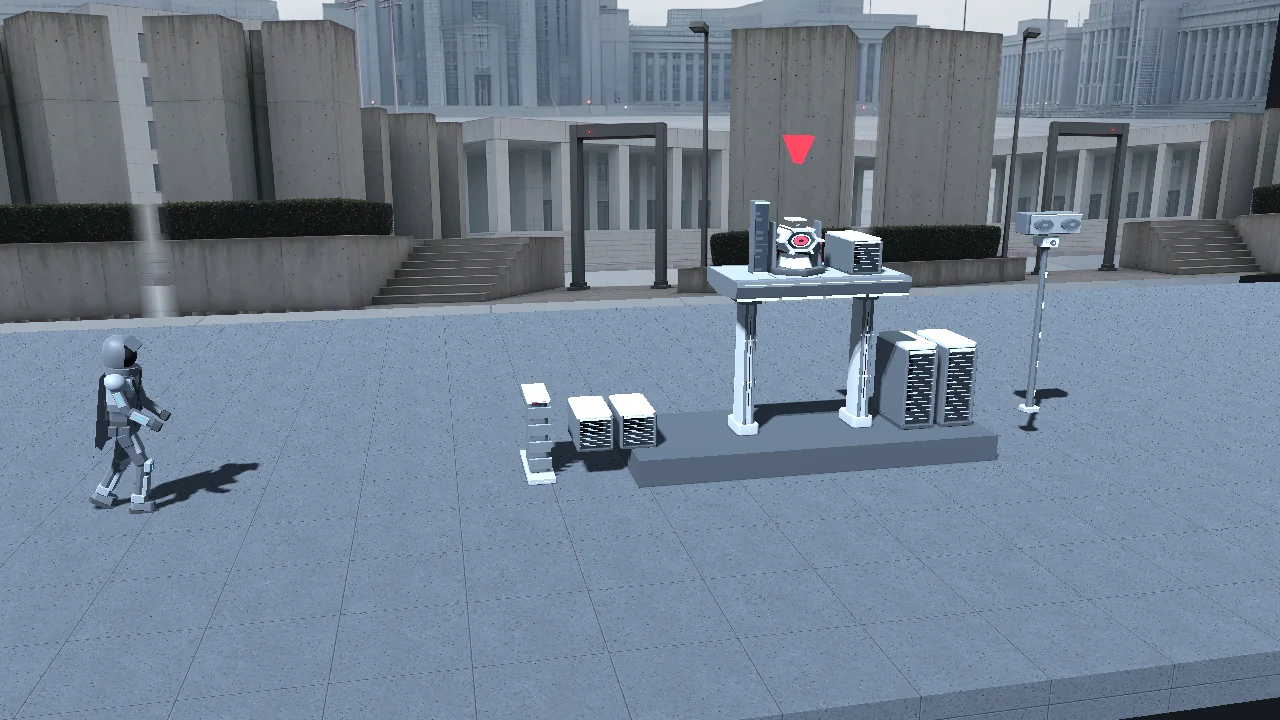
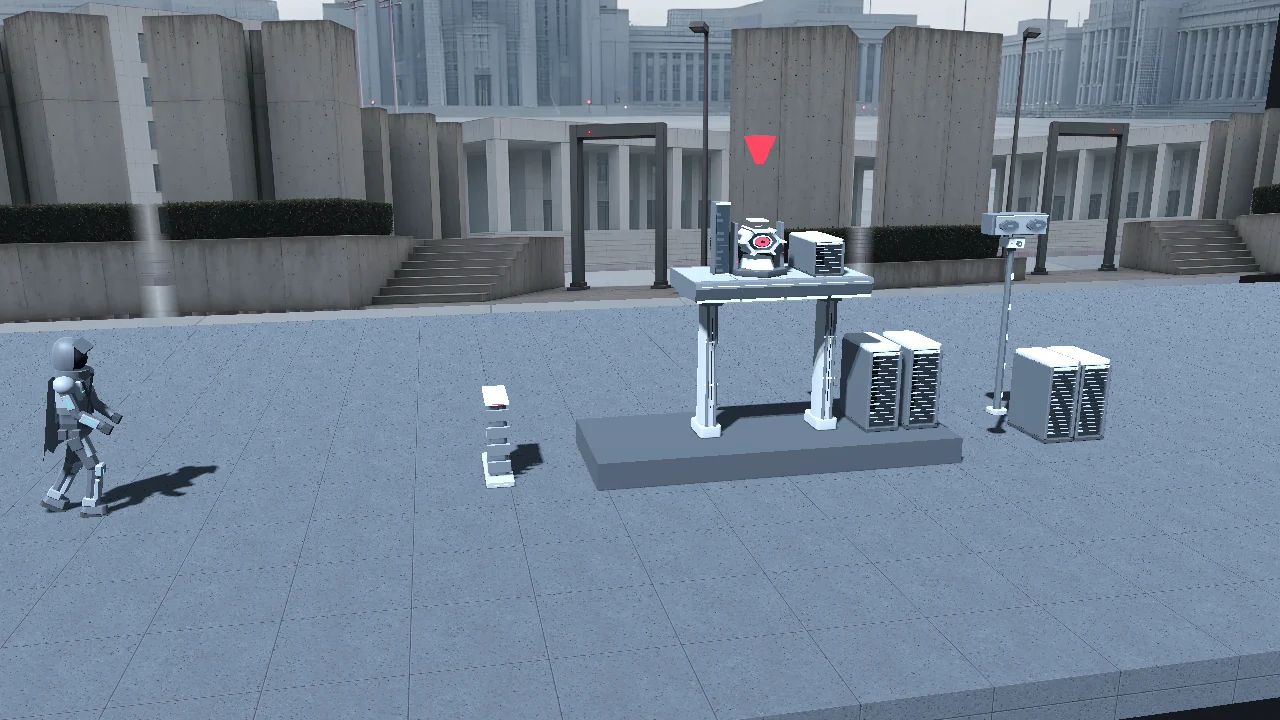
assets: contract v1.8 follows main rack layout and shader warm-up, integration pass 14 re-renders previews

Changed region(s): [[0.375, 0.275, 0.875, 0.7028], [0.0312, 0.4583, 0.2188, 0.7333], [0.5625, 0.1833, 0.6562, 0.2444]]

diff --git a/generated_assets/docs/ASSET_CONTRACT.md b/generated_assets/docs/ASSET_CONTRACT.md
@@ -1,6 +1,6 @@
 # Temporal: First Jump - Asset contract (v1)
 
-**Status:** v1.7 (first published 2026-11-09, revised 2026-11-10) by the integration stream. Binding for every production stream (3d-kits, surfaces, ui-vfx, audio) and the proposed integration contract for the coding agent. Later versions refine it; breaking changes are listed in the change log at the end.
+**Status:** v1.8 (first published 2026-11-09, revised 2026-11-10) by the integration stream. Binding for every production stream (3d-kits, surfaces, ui-vfx, audio) and the proposed integration contract for the coding agent. Later versions refine it; breaking changes are listed in the change log at the end.
 **Derived from code on `main` merged into `assets` at `84a34fd`:** `scripts/mission/view/view_mapping.gd`, `mission_view.gd`, `operative_rig.gd`, `scripts/core/damageable_component.gd`, `material_catalog.gd`, `weapon_catalog.gd`, `scripts/services/music_director.gd`, `audio_service.gd`, `data/materials.json`, `data/weapons.json`, `data/missions/helix_01.json`, `data/chapters.json`, `project.godot`.
 **Engine:** Godot 4.7.2 stable, GL Compatibility renderer on desktop and mobile, ETC2/ASTC VRAM compression enabled (`textures/vram_compression/import_etc2_astc=true`).
 
@@ -65,7 +65,7 @@ Kinds are the `kind` strings in mission JSON. Helix kinds exist in code today. C
 | Meridian `MRD` (proposed) | `anchor_column` (reinforced_steel), `convergence_deck` (composite), `phase_shield` (glass_polymer), `quantum_stabilizer` (electronic_module), `temporal_cell` (energy_component), `monolith_slab` (concrete), `timeline_relay` (lightweight_alloy), `convergence_core` (energy_component, critical) |
 | Shared `SHR` | `generic_block_alloy`, `generic_block_steel`, `generic_block_concrete`, `generic_panel_glass`, `generic_beam_composite` (fallback blocks for structural filler, one per physics material) |
 
-**Reference sizes.** Missions give every component its own `w x h`. A kit mesh is authored at a reference size and the view scales it in X and Y to the actual rectangle (proposed: `scale = (w/100, h/100) / reference_size_m`; depth stays at the kind depth). Record `reference_size_px` (`[w, h]`) and `depth_m` in the manifest, plus `scale_range` (min, max per axis) the mesh still looks right at. Use the `helix_01` sizes for Helix kinds (after the `main` collapse tuning in `abf69fc`: server_rack 40 x 40 and 40 x 100, support_column 26 x 160, service_deck 200 x 24, ai_core 60 x 60, core_shield 16 x 80, power_cell 36 x 40, blast_wall 30 x 90, relay_mast 22 x 220, relay_dish 70 x 24). Where one mesh cannot stretch well (columns, masts, decks) supply length variants (`-A` short, `-B` medium, `-C` long) or design the mesh so its middle section stretches cleanly (end caps at the ends, plain repeating middle).
+**Reference sizes.** Missions give every component its own `w x h`. A kit mesh is authored at a reference size and the view scales it in X and Y to the actual rectangle (proposed: `scale = (w/100, h/100) / reference_size_m`; depth stays at the kind depth). Record `reference_size_px` (`[w, h]`) and `depth_m` in the manifest, plus `scale_range` (min, max per axis) the mesh still looks right at. Use the `helix_01` sizes for Helix kinds (after `main` `7e42a91`: server_rack 40 x 100 for the shipped racks, with 40 x 40 kept for probe layouts, support_column 26 x 160, service_deck 200 x 24, ai_core 60 x 60, core_shield 16 x 80, power_cell 36 x 40, blast_wall 30 x 90, relay_mast 22 x 220, relay_dish 70 x 24). Where one mesh cannot stretch well (columns, masts, decks) supply length variants (`-A` short, `-B` medium, `-C` long) or design the mesh so its middle section stretches cleanly (end caps at the ends, plain repeating middle).
 
 ## 6. Naming
 
@@ -188,6 +188,7 @@ Standard component 200-1,500 tris; hero and critical assets <= 3,000; debris set
 - **Fragments:** each stream writes `generated_assets/manifest_parts/<stream>.json`: `{"stream": "<name>", "updated": "YYYY-MM-DD", "entries": [ ... ]}`. Entry schema = `asset_manifest.json` (required: `id`, `path`, `category`, `render_type`, `format`, `purpose`, `source`, `rights_status`, `approval_status`, `used_by`; optional: `dimensions`, `duration_seconds`, `notes`, `chapter`, `pivot`, `animation`, `loop`, `material`, `component_kind`, `levels`, plus the contract fields `reference_size_px`, `depth_m`, `scale_range`, `tris`, `states`, `nine_slice`, `blend`, `bus`, `sample_rate`, `channels`, `loudness_lufs`, `master_path`, `loop_offset_seconds`, `loop_overlap_seconds`, `sound_id`, `music_cue`, `ambience_cue`). Only list files that exist. `approval_status` for new work is `pending_review`.
 - **Chapter values:** `helix`, `vita`, `nova_grid`, `civitas`, `meridian`, `shared`.
 - **Merge:** `python3 generated_assets/tools/validate_asset_manifest.py --merge` (integration stream) merges all fragments into `asset_manifest.json` with cross-fragment duplicate checks and deep file checks.
+- **Shader warm-up:** `main` `9f773fd` pre-compiles the blast flash, light, sparks and debris shaders while a mission loads, because compiling them on first use stalled a frame by 0.5 to 1.1 s on Android. When the loader adopts kit materials, texture sets and the ui-vfx `.tscn` presets, show each new material and particle preset once, invisibly, during the same warm-up.
 - **Coding agent (proposed loader):** read `generated_assets/asset_manifest.json` once at startup (or a build step converts it to a `.tres` lookup), index entries by `(chapter, component_kind)` for `render_type == "mesh"` and `category == "destructibles"`, and in `MissionView._add_component` instance `load(path)` (a `PackedScene` from the glb import) instead of the greybox `BoxMesh`, scaling X and Y to the physics rectangle as in section 5. Fall back to the current greybox box when no entry exists, so missing art never breaks a level. Debris sets by `(chapter, component_kind)` with id type `DEB`. Damage overlays by `material`. Music by `id`; levels and chapters map to tracks through `generated_assets/docs/coverage_matrix.json`. Nothing under `generated_assets/` is wired into the game until the owner approves integration into `main`.
 
 ## 18. Validation the integration stream runs
@@ -220,3 +221,4 @@ Standard component 200-1,500 tris; hero and critical assets <= 3,000; debris set
 - v1.5 (2026-11-10): follows `main` `abf69fc`: new physics material `ai_core_module` for critical cores (sections 5 and 7) and the retuned `helix_01` sizes (blast wall 30 x 90, short server racks 40 x 40).
 - v1.6 (2026-11-10): section 15 lists the sound and music ids now in `data/audio.json` on `main` (`fa9da67`) and points to the generated audio hook map.
 - v1.7 (2026-11-10): section 7 vertex colours: instead of asking kits to drop `COLOR_0`, the loader honours it as glTF specifies (Godot 4.7.2 import does so only for some surfaces). Kits made either way are valid.
+- v1.8 (2026-11-10): follows `main` `7e42a91` and `9f773fd`: `helix_01` racks are 40 x 100 again (40 x 40 stays a probe size, both rack variants remain valid), and section 17 asks the loader to include new materials and VFX presets in the mission-start shader warm-up.

diff --git a/docs/changelog.md b/docs/changelog.md
@@ -20,6 +20,8 @@ All meaningful changes, newest first.
 - Integration pass 5: audio batches 2 and 3 (55 original music cues for all chapters and the shared set) and surfaces batch 2 (metal and Meridian readability revision) merged. Godot load 857 / 857, 0 failures. Music measured -16.1 LUFS median (-15.9 to -16.3 for full mixes; critical layers -18.9 by design), true peak at most -1.2 dBTP. Every code sound id and music cue now has delivered files in the audio hook map; `gameplay_bed.ogg` is untouched and stays rights-unverified. Added `generated_assets/vfx/previews/.gdignore` so Godot skips the animated WebP review previews it cannot import. Coverage: 2009 / 3236, game-wide 29 / 36, 0 / 100 levels complete (3D kits, environment kits, backgrounds and cinematics still to come).
 - Integration pass 6: surfaces batch 3 (Helix, VITA and Nova Grid background layers and atmosphere overlays) merged; Godot load 923 / 923. Contract v1.7: the loader honours glTF vertex colours, so kits may use `COLOR_0` or baked colour. Validator accepts animation clips that share a character glb and checks each clip exists. Coverage: 2109 / 3236, game-wide 29 / 36, 0 / 100 levels complete.
 - Preview harness: background renders per band (`harness_mission_<chapter>_bg<band>.webp`) with the far, mid and near cards placed as the surfaces stream specifies; contract section 10 records that placement.
+- Merged `main` `9cfee96` (with `7e42a91`, the Helix rack layout: `rack_1` and `rack_2` back to 40 x 100 beyond the relay mast, and `9f773fd`, the shader warm-up) into `assets` as 615b800. Contract v1.8 records both: 40 x 100 is the shipped rack size again, and the loader should include new materials and VFX presets in the mission-start warm-up.
+- Integration pass 14: re-rendered every mission preview for the new Helix layout (the harness now picks `HLX-CMP-SERVER_RACK-B`, 40 x 100, at scale 1.0). Validator 0 warnings; Godot load 1358 / 1358; coverage unchanged at 3054 / 3236.
 - Integration pass 13: 3d-kits merged the rigged operative (`OPR-CHR-OPERATIVE-A`, 9 clips) and the Meridian environment kit. Manifest 1351 entries, 333.8 MB, level with the fragments (3d-kits 400, audio 245, surfaces 375, ui-vfx 314); validator 0 warnings. Godot load 1358 / 1358 (392 PackedScenes). Every mission render now shows the real operative in place of the capsule stand-in. Coverage: 3054 / 3236; levels 39 full, 51 fallback, 10 missing; game-wide 35 / 36.
 - Integration pass 12: surfaces batch 4 (Civitas and Meridian background sets) and 3d-kits batch 9 (Civitas environment kit, 21 modules) merged. Pass 11 was pushed on top of both by the push routine's rebase, so its merged manifest briefly lagged the fragments; this pass brings it level. Manifest 1303 entries, 328.4 MB; validator 0 warnings. Godot load 1310 / 1310 (349 PackedScenes). All five chapters now render their own background bands (`harness_mission_civitas_bg1-4.webp`, `harness_mission_meridian_bg1-4.webp`). Coverage: 2970 / 3236; levels 21 full, 51 fallback, 28 missing.
 - Integration pass 11: 3d-kits batches 7 and 8 merged (VITA and Nova Grid environment kits, 21 modules each including the four band landmarks). Manifest 1245 entries, 323.7 MB; validator 0 warnings. Godot load 1252 / 1252 (328 PackedScenes), import clean first time. New `harness_props_vita.webp` and `harness_props_nova_grid.webp`. Coverage: 2886 / 3236; levels 20 full, 34 fallback, 46 missing.

diff --git a/docs/currentstate.md b/docs/currentstate.md
@@ -9,7 +9,7 @@ M1 audit findings (toolchain, architecture, level mapping, identity/signing, ris
 This section exists only on the `assets` branch. `main` is untouched; nothing under `generated_assets/` is wired into the game until the owner approves integration.
 
 - **Scope:** owner-authorised production of the complete asset library for all five chapters and 100 levels: modular 3D component kits with damage states and debris, environment kits, materials and damage overlays, operative and weapons, VFX, UI/UX, app icon and splash, cinematics stills, original music, SFX and ambience. Streams: integration, 3d-kits, surfaces, ui-vfx, audio.
-- **Contract:** `generated_assets/docs/ASSET_CONTRACT.md`, v1.7 (scale 100 px = 1 m, glb +Y up and +Z towards the camera, centre pivots on z = 0, front face = physics rectangle, MissionView camera and light, damage states intact/light/heavy/destroyed with an optional sparking state).
+- **Contract:** `generated_assets/docs/ASSET_CONTRACT.md`, v1.8 (scale 100 px = 1 m, glb +Y up and +Z towards the camera, centre pivots on z = 0, front face = physics rectangle, MissionView camera and light, damage states intact/light/heavy/destroyed with an optional sparking state).
 - **Manifest:** streams write `generated_assets/manifest_parts/<stream>.json`; `python3 generated_assets/tools/validate_asset_manifest.py --merge` merges them into `generated_assets/asset_manifest.json` and deep-checks every file.
 - **Godot validation:** `generated_assets/tools/godot/run_import_check.sh` (Godot 4.7.2 headless import plus load of every manifest asset) and `render_previews.sh` (previews under the game camera; previews in `generated_assets/docs/previews/`).
 - **Coverage:** `python3 generated_assets/tools/build_coverage_matrix.py` writes `generated_assets/docs/coverage_matrix.md` and `.json` (per level: environment kit, background, structural components, critical asset, materials, VFX, music, ambience, cinematics, landmark props).

diff --git a/generated_assets/asset-production-plan.md b/generated_assets/asset-production-plan.md
@@ -52,6 +52,7 @@ The coverage matrix (`docs/coverage_matrix.md`) lists for each level its environ
 | 2026-11-10 | Integration pass 11 | 3d-kits batches 7 and 8 (VITA, Nova Grid environment kits) merged; validator 0 warnings; Godot load 1252 / 1252; coverage 2886 / 3236, 20 levels full, 34 fallback |
 | 2026-11-10 | Integration pass 12 | surfaces batch 4 (Civitas, Meridian backgrounds) and 3d-kits batch 9 (Civitas environment kit) merged; validator 0 warnings; Godot load 1310 / 1310; coverage 2970 / 3236, 21 full, 51 fallback |
 | 2026-11-10 | Integration pass 13 | rigged operative and Meridian environment kit merged; manifest level with fragments (1351); validator 0 warnings; Godot load 1358 / 1358; coverage 3054 / 3236, 39 full, 51 fallback, 10 missing |
+| 2026-11-10 | Main sync and pass 14 | main 9cfee96 merged (Helix racks 40 x 100 again, shader warm-up); contract v1.8; previews re-rendered; Godot load 1358 / 1358; coverage 3054 / 3236 |
 
 ## Review status (2026-11-09)
 
